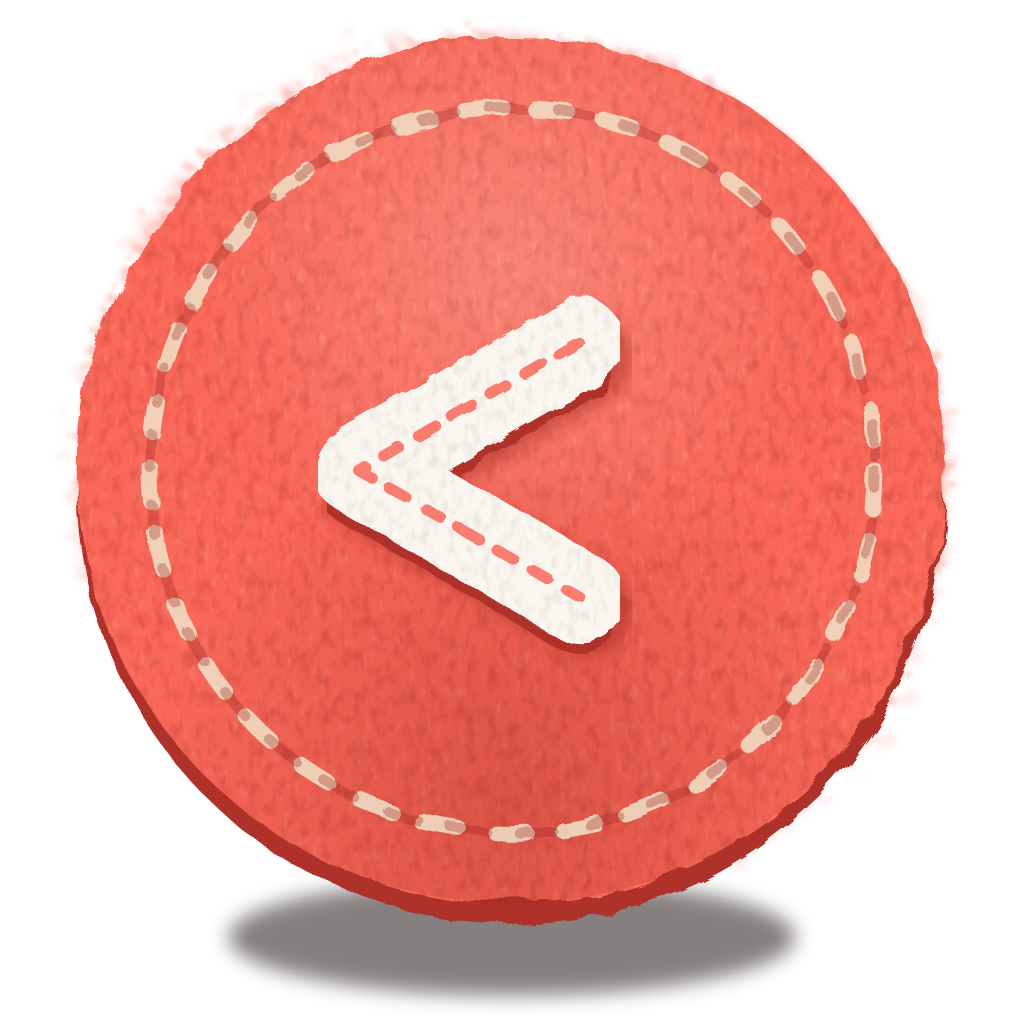
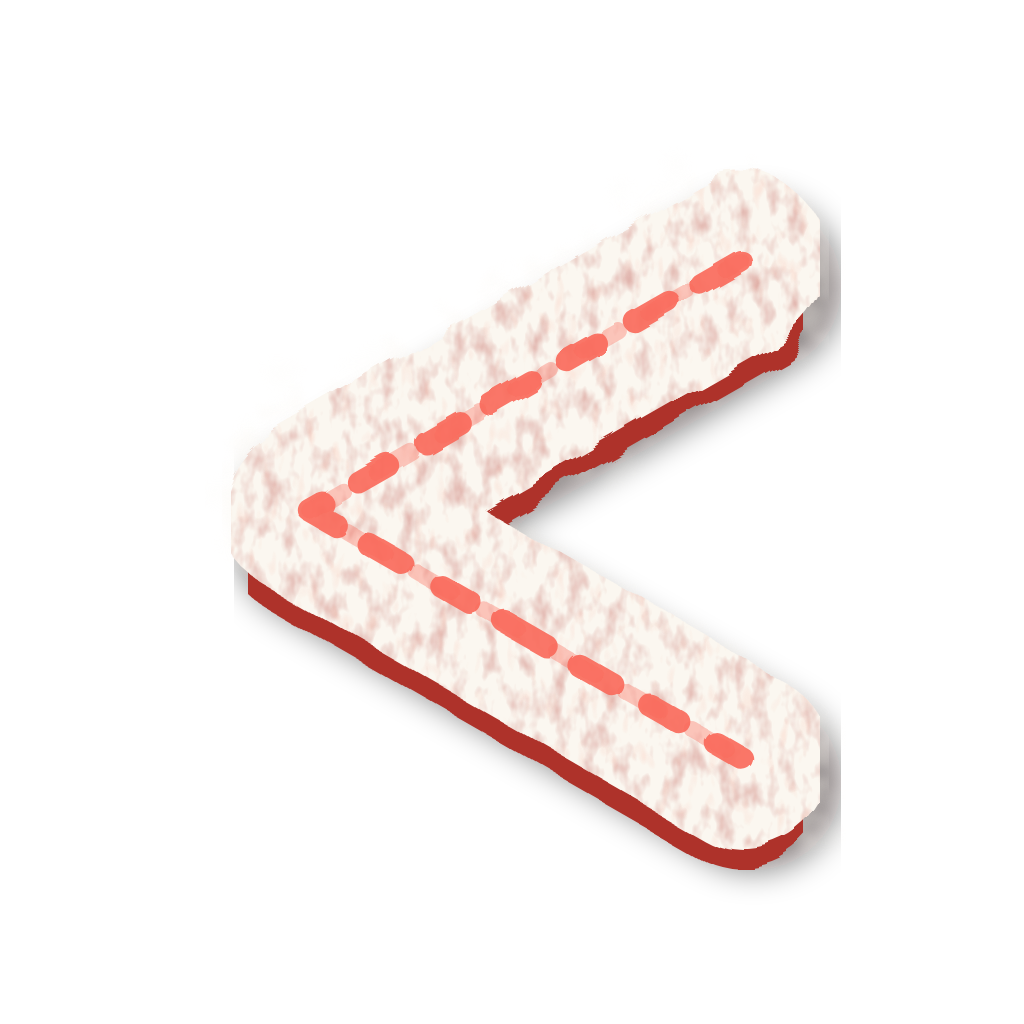
아이콘을 R1 안으로 되돌리고 + 펠트 녹음띠 앱 반입 · 검수문 ⑦ (유호 08-28 「전부 부탁해」)
■ 🔴 아이콘 — 회귀가 내 눈을 이겼다
앞 커밋(8635b0a)에서 아이콘을 정본 「도장」(코랄 원반)으로 세웠는데, tests/아이콘.test.js 가
막았다: **R1 「신호색 면적 5% 미만」**(2색 원칙 · 신호는 한 점)을 코랄 원반이 정면으로 어긴다.
눈으로는 도장이 런처 96px 에서 제일 잘 읽혔는데, 잘 읽힌 까닭이 곧 위반이었다.

⇒ 정본 로고.기호(펠트) 를 **몸 Paper(크림) · 땀 Coral** 로 부른다. Ink 바탕 + 크림 꺾쇠 +
  코랄 실땀 = 정본이면서 R1 을 지킨다. 도장의 «가운데»가 원래 이 그림이라 원반만 뺀 셈이다.

📌 앞 커밋 문구를 좁힌다: 옛 평면 「S.」의 잘못은 **정본 밖 마크**라는 것 하나였다.
   R1 은 「S.」가 오히려 지키고 있었다(Ink 바탕 + 크림 글자 + 작은 코랄 점).
   「그냥 결함」이라고 넓게 적었던 것이 과했다.

■ 그 김에 이 회귀의 «자»를 고쳤다 — 재는 것은 안 건드렸다
펠트 실땀은 sl-soft 필터에 opacity 0.9/0.36 으로 얹혀 **정확한 #F96859 가 한 픽셀도 안 남는다**
(실측: exact 0 · 근방 ±26 = 1.524%). 이 파일은 같은 물리를 스플래시(알록)에서 이미 겪고
근방으로 옮겨 뒀다 — 같은 처방을 펠트 마크로 넓혔다. **면적 규율 5% 는 그대로**고, 잉크는
평평한 몸이라 정확한 hex 가 남아(49,350px) 비율로 뒀다. 자와 재는 것이 갈린 자리를 맞춘 것이지
문턱을 낮춘 것이 아니다.

■ 펠트 녹음띠 — 08-25 에 굽고 08-28 까지 앱에 한 장도 없던 것
assets/부품/구조2 8장(WebP) + src/녹음띠.js. 세 상태가 문장을 만든다 —
대기(실이 아직 안 꿰어짐 · 코랄 없음) → 말하는중(꿰는 중) → 맺음(매듭).
tools/부품변환.py 신설: 알파는 «몸» 층으로 자르고(접지로 자르면 아무것도 안 잘린다),
두 층을 합치고, 정사각으로 안 만든다(띠는 가로가 길다).
🔑 **한 묶음은 한 자로 자른다** — 각자 제 알파로 자르니 높이가 444·482·363 으로 갈려
   상태가 바뀔 때마다 띠가 커졌다 작아졌다 했다. 이름의 _ 앞이 같으면 한 자로 자른다.

■ 🔴 말하기화면은 한 자도 안 건드렸다 — 자리는 유호님 픽 (검수문 ⑦)
띠를 그대로 단추로 바꾸면 규율이 깨진다: 테마 R1 이 말하기 화면의 신호자리를 녹음버튼으로
못박아 뒀는데 **띠의 «대기» 상태에는 코랄이 없다** ⇒ 녹음 «전» 화면의 신호가 0점이 된다.
㉯(코랄 원 + 띠 밴드)로 가면 녹음 «중» 에 코랄이 둘이 된다. 셋 다 값과 대가가 있어
아이콘(정본 밖 = 결함)과 달리 이건 «덜 풍부한 것»이지 결함이 아니다 — 유호님 눈이 판정 축이다.
검수문 ⑦ 에 세 안을 나란히 세웠다. 고르시면 녹음띠.js 를 그대로 쓰면 된다.

회귀 2,834 중 2,833 통과 · 실패 0 (todo 1).
[…]

diff --git a/src/검수문.js b/src/검수문.js
@@ -34,6 +34,7 @@ import 반짝임, { 박자 } from './반짝임.js';
 import NPC from './NPC.js';
 import { 역들 as NPC역들, 상태들 as NPC상태들 } from '../lib/NPC연출.js';
 import 마스코트 from './마스코트';
+import 녹음띠, { 상태들 as 녹음상태들 } from './녹음띠.js';
 
 /* 서버 응답 모양 그대로 — 정본(`견줌`)이 화면이 읽는 꼴로 접는다.
    어제 1 → 오늘 3 (두 칸 오름) · 다시 말한 것 0 → 1 · 교정 재발화 있음 = 결론 두 줄이 다 선다. */
@@ -252,6 +253,46 @@ export default function 검수문({ 돌아가기 }) {
           </View>
         </View>
 
+        {/* ── ⑦ 녹음 단추 — 어디에 앉힐까 (유호님 픽 대기 · 08-28) ──
+            🔴 이 칸은 «보여주기»가 아니라 **판정 자리**다. 펠트 띠 셋은 08-25 에 구워 놓고
+            08-28 까지 앱에 한 장도 안 들어와 있었는데(받침이 켜져 알파가 프레임을 꽉 채웠다),
+            통로를 뚫고 나니 «어디에 앉히나»가 갈렸다.
+            🔑 갈린 까닭은 미학이 아니라 **규율**이다: 테마 R1 「신호 1점」이 말하기 화면의
+            신호자리를 녹음버튼으로 못박아 뒀는데, 띠의 «대기» 상태에는 코랄이 없다.
+            ⇒ ㉮로 가면 녹음 «전» 화면의 신호가 0점이 되고, ㉯로 가면 녹음 «중» 에 코랄이 둘이 된다.
+            ㉰는 지금 그대로다(띠를 안 쓴다). 셋 다 값과 대가가 있어 유호님 눈이 판정 축이다.
+            🔑 셋을 나란히 놓는 것이 이 칸의 전부다 — 한 안씩 따로 보면 「무엇을 잃는지」가 안 보인다. */}
+        <View style={s.칸}>
+          <View style={s.칸머리}>
+            <Text style={s.칸이름}>⑦ 녹음 단추 세 안 — 어디에 앉힐까 (유호님 픽 대기)</Text>
+          </View>
+          <Text style={s.눈금}>
+            띠가 말하는 문장 = 대기(실이 아직 안 꿰어짐 · 코랄 없음) → 말하는중(꿰는 중) → 맺음(매듭) ·
+            셋은 «한 자»로 잘려 같은 틀이라 상태가 바뀌어도 띠가 안 움직인다
+          </Text>
+
+          <Text style={s.안이름}>㉮ 띠를 «단추»로 — 원 설계 의도 · 대가 = 녹음 전 신호 0점</Text>
+          <View style={[s.무대, { alignItems: 'center', gap: 10, paddingVertical: 14 }]}>
+            {녹음상태들.map((상태) => (
+              <View key={`가-${상태}`} style={{ alignItems: 'center', gap: 4 }}>
+                <녹음띠 상태={상태} 폭={240} />
+                <Text style={s.잔글}>{상태}</Text>
+              </View>
+            ))}
+          </View>
+
+          <Text style={s.안이름}>㉯ 코랄 원은 단추로 두고 띠는 «상태 밴드» — 대가 = 녹음 중 코랄이 둘</Text>
+          <View style={[s.무대, { alignItems: 'center', gap: 12, paddingVertical: 14 }]}>
+            <녹음띠 상태="말하는중" 폭={220} />
+            <View style={s.코랄원보기}><View style={s.정지사각보기} /></View>
+          </View>
+
+          <Text style={s.안이름}>㉰ 지금 그대로 — 띠를 안 쓴다 (규율은 온전 · 대가 = 구운 것이 논다)</Text>
+          <View style={[s.무대, { alignItems: 'center', paddingVertical: 14 }]}>
+            <View style={s.코랄원보기}><View style={s.마이크점보기} /></View>
+          </View>
+        </View>
+
         <Pressable onPress={돌아가기} style={({ pressed }) => [s.back, pressed && s.눌림]}>
           <Text style={s.backText}>← 돌아가기</Text>
         </Pressable>
@@ -278,6 +319,18 @@ const s = StyleSheet.create({
   },
   무대_연기: { minHeight: 180, alignItems: 'center', justifyContent: 'center' },
   빈무대: { fontFamily: 폰트.캡션, fontSize: 13, color: 색.잉크_메타 },
+
+  /* ⑦ 녹음 단추 세 안 — 안마다 «무엇을 잃는지»를 제목에 달아 둔다(고르는 자리라서). */
+  안이름: { fontFamily: 폰트.강조, fontSize: 13, color: 색.잉크_서브, marginTop: 14, marginBottom: 6 },
+  잔글: { fontFamily: 폰트.캡션, fontSize: 11, color: 색.잉크_메타 },
+  /* 말하기화면의 코랄 원을 «보기»로만 옮긴 것 — 값(84·14·22)은 그쪽 정본과 같아야 판정이 된다.
+     ⚠ 저기가 바뀌면 여기도 바뀌어야 한다. 지금은 한 화면 안의 대조라 눈으로 잡힌다. */
+  코랄원보기: {
+    width: 84, height: 84, borderRadius: 42, backgroundColor: 색.신호,
+    alignItems: 'center', justifyContent: 'center',
+  },
+  마이크점보기: { width: 14, height: 14, borderRadius: 7, backgroundColor: 색.바탕 },
+  정지사각보기: { width: 22, height: 22, borderRadius: 5, backgroundColor: 색.바탕 },
 
   고름줄: { flexDirection: 'row', gap: 8 },
   고름: {

diff --git a/src/녹음띠.js b/src/녹음띠.js
@@ -1,0 +1,53 @@
+'use strict';
+/**
+ * 녹음띠 — 말하기의 «한 땀»을 펠트로 보여주는 세 상태 (Loom 굽기 08-25 · 앱 반입 08-28).
+ *
+ * ■ 이 그림이 왜 있나
+ *   appsscript `세트굽기.js` 의 구조2 세트 주석이 자기 존재 이유를 이렇게 적어 뒀다 —
+ *   「🔴 녹음 — 이 공방의 가장 큰 구멍이었다. … 우리는 «말하기» 학원이고 학생이 가장 여러 번
+ *   누르는 단추다. 상태 셋을 «따로» 굽는다 — 한 판에 늘어놓으면 유채가 둘이 되어 신호 1점이 깨진다.」
+ *   08-25 에 구웠는데 **08-28 까지 앱에 한 장도 안 들어와 있었다**(받침이 켜진 채로 구워져
+ *   알파가 프레임을 꽉 채웠고, 알파 크롭이 원리상 아무것도 못 잘랐다 — NPC 배지와 같은 병).
+ *
+ * ■ 세 상태가 말하는 것 — 이건 장식이 아니라 «문장»이다
+ *   대기   = 실이 아직 안 꿰어짐 (바늘이 놓여 있다 · **코랄이 없다**)
+ *   말하는중 = 꿰는 중 (바늘이 서고 코랄 땀이 따라온다)
+ *   맺음   = 다 꿰었다 (땀이 끝까지 가고 매듭이 진다)
+ *
+ * ■ 🔴 아직 «단추»가 아니다 — 자리는 유호님 판정 대기(검수문 ⑦)
+ *   원 설계 주석은 이걸 단추로 두려 했지만, 그대로 바꾸면 문제가 하나 선다:
+ *   **대기 상태에 코랄이 없어서 녹음 전 화면의 신호가 0점이 된다.**
+ *   테마 R1 「신호 1점」은 말하기 화면의 신호자리를 «녹음버튼»으로 못박아 뒀다.
+ *   ⇒ 자산과 부품은 여기 세워 두고, 어디에 앉힐지는 검수문 ⑦ 에서 유호님이 고르신다.
+ *      고르시면 이 파일을 그대로 쓰면 되고, 지금 말하기화면은 한 자도 안 건드렸다.
+ */
+import { Image, StyleSheet, View } from 'react-native';
+
+/* 굽기 산출 → `tools/부품변환.py` → 여기. 셋은 **한 자로 잘려** 같은 틀(1024×563)이다 —
+ * 각자 제 알파로 자르면 높이가 444·482·363 으로 갈려 상태가 바뀔 때마다 띠가 커졌다 작아졌다 한다
+ * (08-28 실측 · 그래서 변환기가 «묶음은 한 자로» 자른다). */
+const 그림 = {
+  대기: require('../assets/부품/구조2/녹음_대기.webp'),
+  말하는중: require('../assets/부품/구조2/녹음_말하는중.webp'),
+  맺음: require('../assets/부품/구조2/녹음_맺음.webp'),
+};
+
+export const 상태들 = ['대기', '말하는중', '맺음'];
+export const 가로세로비 = 563 / 1024;   // 굽기 틀 그대로 — 화면이 이 수를 다시 적지 않는다
+
+/**
+ * @param {'대기'|'말하는중'|'맺음'} 상태
+ * @param {number} 폭   띠의 가로 px. 세로는 비율이 정한다.
+ */
+export default function 녹음띠({ 상태 = '대기', 폭 = 240, 스타일 }) {
+  const 그것 = 그림[상태] || 그림.대기;
+  return (
+    <View style={[{ width: 폭, height: Math.round(폭 * 가로세로비) }, 스타일]}>
+      <Image source={그것} style={s.그림} resizeMode="contain" accessibilityIgnoresInvertColors />
+    </View>
+  );
+}
+
+const s = StyleSheet.create({
+  그림: { width: '100%', height: '100%' },
+});

diff --git a/tests/아이콘.test.js b/tests/아이콘.test.js
@@ -61,13 +61,20 @@ async function 픽셀통계(file) {
   return { cnt, n, 투명, w: info.width, h: info.height, 비율: (c) => (cnt[c] || 0) / n, 근방 };
 }
 
+/* `펠트` = 이 그림의 브랜드색이 **펠트 필터를 지나서** 칠해진다는 표시.
+ * 🔴 08-28 에 아이콘 넷이 평면 「S.」에서 정본 기호(크림 펠트 꺾쇠 + 코랄 실땀)로 바뀌면서
+ *   이 눈금이 원리상 못 재는 자리가 됐다 — 실땀은 `sl-soft` 필터에 opacity 0.9/0.36 로 얹히므로
+ *   **정확한 #F96859 가 한 픽셀도 안 남는다**(실측: exact 0 · 근방 ±26 = 1.524%).
+ *   이 파일은 이미 같은 물리를 스플래시(알록)에서 겪고 근방으로 옮겼다 — 같은 처방을 여기 넓힌다.
+ *   ⚠ **면적 규율(5% 미만)은 안 건드린다.** 고친 것은 «재는 자»뿐이고 «재는 것»이 아니다.
+ *     그리고 잉크(CREAM)는 평평한 몸이라 정확한 hex 가 그대로 남으므로(실측 49,350px) 비율로 둔다. */
 const 파일들 = [
-  { f: 'icon.png', size: 1024, 배경: NAVY2 },
-  { f: 'android-icon-foreground.png', size: 1024, 배경: null },
+  { f: 'icon.png', size: 1024, 배경: NAVY2, 펠트: true },
+  { f: 'android-icon-foreground.png', size: 1024, 배경: null, 펠트: true },
   { f: 'android-icon-background.png', size: 1024, 배경: NAVY2 },
   { f: 'android-icon-monochrome.png', size: 1024, 배경: null },
   { f: 'splash-icon.png', size: 1024, 배경: null, 알록: true },
-  { f: 'favicon.png', size: 64, 배경: NAVY2 },
+  { f: 'favicon.png', size: 64, 배경: NAVY2, 펠트: true },
 ];
 
 test('아이콘 6종이 모두 있다', () => {
@@ -87,7 +94,7 @@ test('app.json 의 배경색이 정본 Ink Deep 과 같다', () => {
 // sharp 가 없는 환경에서는 픽셀 검사를 건너뛴다 — 다만 **조용히 통과시키지 않고 skip 으로 남긴다**.
 const 픽셀검사 = sharp ? test : test.skip;
 
-for (const { f, size, 배경, 알록 } of 파일들) {
+for (const { f, size, 배경, 알록, 펠트 } of 파일들) {
   픽셀검사(`${f} — 규격·정본색·R1`, async () => {
     const s = await 픽셀통계(A(f));
     assert.equal(s.w, size, `${f} 가로 규격`);
@@ -113,7 +120,7 @@ for (const { f, size, 배경, 알록 } of 파일들) {
           색은 살아 있으므로 눈금을 근방으로 옮기되, 면적 규율(5% 미만)은 그대로 건다. */
     /* 알록 «소프트» 정본(유호 08-25)은 색실이 전부 파스텔이라 **원색 코랄이 한 픽셀도 없다**
        (실측: Coral 근방 0 · Coral Soft 근방 0.09%). 코랄 계열이면 신호가 산 것으로 본다. */
-    const 신호면적 = 알록 ? s.근방(CORAL) + s.근방(CORAL_SOFT) : s.비율(CORAL);
+    const 신호면적 = 알록 ? s.근방(CORAL) + s.근방(CORAL_SOFT) : (펠트 ? s.근방(CORAL) : s.비율(CORAL));
     assert.ok(신호면적 < 0.05, `${f} Coral 면적 ${(신호면적 * 100).toFixed(2)}% — R1 위반`);
 
     // monochrome 은 OS 가 칠하므로 브랜드색이 없는 게 정상

diff --git a/tools/부품변환.py b/tools/부품변환.py
@@ -1,0 +1,132 @@
+# 요소 부품 변환 — 굽기 산출(투명 PNG 두 층) → talk 앱 자산 WebP.
+#
+# 왜 있나: appsscript 가 08-25 에 구운 펠트 UI 부품 28장이 **앱에 한 장도 못 갔다**(08-28 실측).
+#   까닭은 굽기 쪽이었다 — 받침(밤천)을 깔고 찍어 **알파가 프레임을 꽉 채웠고**, 알파 크롭이
+#   원리상 아무것도 못 잘랐다(NPC 배지 16장이 넉 달 묵은 것과 «같은 병»이다).
+#   08-28 에 `세트굽기.js --더 "투명=1"` 통로가 서서 두 층(몸·접지)으로 나오기 시작했다.
+#
+# 🔑 NPC변환과 다른 점 = **정사각으로 안 만든다.** 배지는 원형이라 정사각이 옳았지만
+#   조작·표시 부품은 가로가 긴 띠·판이라 정사각에 넣으면 위아래가 통째로 빈다.
+#   여기서는 **가로세로비를 그대로 지키고** 가로만 목표 눈금에 맞춘다.
+# 🔑 두 층을 **합친다.** 접지(그림자)를 따로 두는 값은 「배경마다 다시 안 굽는다」인데
+#   앱 배경은 Ink 하나다. 합쳐서 파일 수와 배선을 반으로 줄인다.
+#   ⚠ 합치는 순서는 접지 → 몸이다(그림자가 아래).
+# 🔑 알파로 자른다: 굽기 프레임은 받침이 있던 자리 기준이라 부품이 한쪽에 치우쳐 있다.
+#   자르지 않으면 화면마다 자리가 흔들린다.
+#
+# 실행:  python tools/부품변환.py [굽기폴더] [세트,세트]   (기본 = 형제 저장소 요소부품_0828 · 전 세트)
+# 산출:  assets/부품/<세트>/<이름>.webp
+#
+# ⚠ **굽는 «중»인 세트를 넣지 마라** — 반쯤 난 세트는 몸만 있고 접지가 아직 없어 「못 낸 것」으로
+#   빨개진다(그 자체는 옳은 거동이다). 밤 배치가 도는 동안은 끝난 세트만 이름으로 고른다.
+import os
+import sys
+import numpy as np
+from PIL import Image
+
+여백비 = 0.04       # 사방 여백 — 펠트는 가장자리가 곧 재질이라 꽉 채우면 각져 보인다
+가로눈금 = 1024     # @4x 기준. 띠 부품은 화면에서 최대 256pt 쯤 쓴다
+
+여기 = os.path.dirname(os.path.abspath(__file__))
+DST = os.path.join(여기, '..', 'assets', '부품')
+기본원본 = os.path.join(여기, '..', '..', 'SYNK-appsscript', 'docs', '캐릭터', '요소부품_0828')
+
+
+def 몸상자(몸):
+    """몸 층의 알파 바운딩박스에 그림자 여유를 더한 것.
+
+    🔴 자르는 자를 «몸»으로 두는 것이 핵심이다. 접지는 그림자라 알파가 프레임 가까이까지
+       퍼져 있어서, 합친 뒤의 알파로 자르면 **아무것도 안 잘린다**(받침을 걷은 뜻이 사라진다).
+    """
+    a = np.asarray(몸)[:, :, 3]
+    행 = np.nonzero(a.any(axis=1))[0]
+    열 = np.nonzero(a.any(axis=0))[0]
+    assert 행.size and 열.size, '몸 층의 알파가 통째로 비었다 — 굽기가 덜 끝났거나 몸 패스가 아니다'
+    번짐 = int(max(몸.size) * 0.02)          # 그림자 여유
+    return (max(0, int(열[0]) - 번짐), max(0, int(행[0]) - 번짐),
+            min(몸.width, int(열[-1]) + 1 + 번짐), min(몸.height, int(행[-1]) + 1 + 번짐))
+
+
+def 합치기(상자들):
+    """여러 상자를 다 덮는 하나 — «한 묶음은 한 자로 잘린다»."""
+    return (min(b[0] for b in 상자들), min(b[1] for b in 상자들),
+            max(b[2] for b in 상자들), max(b[3] for b in 상자들))
+
+
+def 잘라앉히기(몸, 접지, 상자):
+    """접지 → 몸 순으로 합치고 주어진 상자로 자른다(그림자가 아래)."""
+    합 = Image.new('RGBA', 몸.size, (0, 0, 0, 0))
+    합.alpha_composite(접지)
+    합.alpha_composite(몸)
+    잘림 = 합.crop(상자)
+
+    안쪽 = int(가로눈금 * (1 - 여백비 * 2))
+    배 = 안쪽 / 잘림.width
+    새 = 잘림.resize((max(1, round(잘림.width * 배)), max(1, round(잘림.height * 배))), Image.LANCZOS)
+    여백 = int(가로눈금 * 여백비)
+    판 = Image.new('RGBA', (가로눈금, 새.height + 여백 * 2), (0, 0, 0, 0))
+    판.paste(새, (여백, 여백), 새)
+    return 판
+
+
+def main():
+    원본뿌리 = os.path.abspath(sys.argv[1] if len(sys.argv) > 1 else 기본원본)
+    if not os.path.isdir(원본뿌리):
+        raise SystemExit('굽기 폴더가 없다: ' + 원본뿌리)
+    고른세트 = {s.strip() for s in sys.argv[2].split(',')} if len(sys.argv) > 2 else None
+
+    낸것 = 0
+    빠진것 = []
+    for 세트 in sorted(os.listdir(원본뿌리)):
+        방 = os.path.join(원본뿌리, 세트)
+        if not os.path.isdir(방):
+            continue
+        if 고른세트 and 세트 not in 고른세트:
+            continue
+        낼방 = os.path.join(DST, 세트)
+        os.makedirs(낼방, exist_ok=True)
+        이름들 = sorted({f[:-len('_몸.png')] for f in os.listdir(방) if f.endswith('_몸.png')})
+
+        # 🔴 **한 묶음은 한 자로 자른다** — 08-28 실측: 녹음 세 «상태»를 각자 제 알파로 잘랐더니
+        #   높이가 444·482·363 으로 갈렸다. 그대로 앱에 넣으면 상태가 바뀔 때마다 단추가
+        #   커졌다 작아졌다 한다(바늘이 위로 솟은 판만 키가 크다). 상태 묶음은 «같은 물건의
+        #   다른 순간»이니 자도 하나여야 한다 — 이름의 `_` 앞이 같으면 한 묶음으로 본다.
+        #   (묶음이 아닌 홑 부품은 제 상자를 그대로 쓴다 — 남의 여백을 물려받을 까닭이 없다.)
+        상자표 = {}
+        묶음별 = {}
+        for 이름 in 이름들:
+            if os.path.exists(os.path.join(방, 이름 + '_접지.png')):
+                묶음별.setdefault(이름.split('_')[0], []).append(이름)
+        for 묶음, 식구 in 묶음별.items():
+            공통 = 합치기([몸상자(Image.open(os.path.join(방, n + '_몸.png')).convert('RGBA')) for n in 식구])
+            for n in 식구:
+                상자표[n] = 공통
+            if len(식구) > 1:
+                print('  · %s/%s — %d상태를 한 자로 자른다 %s' % (세트, 묶음, len(식구), 공통))
+
+        for 이름 in 이름들:
+            몸길 = os.path.join(방, 이름 + '_몸.png')
+            접길 = os.path.join(방, 이름 + '_접지.png')
+            if not os.path.exists(접길):
+                빠진것.append(세트 + '/' + 이름 + ' (접지 없음)')
+                continue
+            판 = 잘라앉히기(Image.open(몸길).convert('RGBA'), Image.open(접길).convert('RGBA'), 상자표[이름])
+            낼길 = os.path.join(낼방, 이름 + '.webp')
+            판.save(낼길, 'WEBP', quality=92, method=6)
+            print('  %-28s %dx%d  %5.1fKB' % (세트 + '/' + 이름, 판.width, 판.height,
+                                              os.path.getsize(낼길) / 1024))
+            낸것 += 1
+
+    print('■ 부품 변환 — %d장 → assets/부품/' % 낸것)
+    if 빠진것:
+        # 🔴 조용히 넘어가지 않는다 — 「0건」이 성공 얼굴을 하는 갈래다(08-28 하루에 넷).
+        print('🔴 못 낸 것 %d:' % len(빠진것))
+        for x in 빠진것:
+            print('   ' + x)
+        raise SystemExit(1)
+    if 낸것 == 0:
+        raise SystemExit('🔴 한 장도 못 냈다 — 굽기 폴더에 _몸.png 가 없다: ' + 원본뿌리)
+
+
+if __name__ == '__main__':
+    main()
